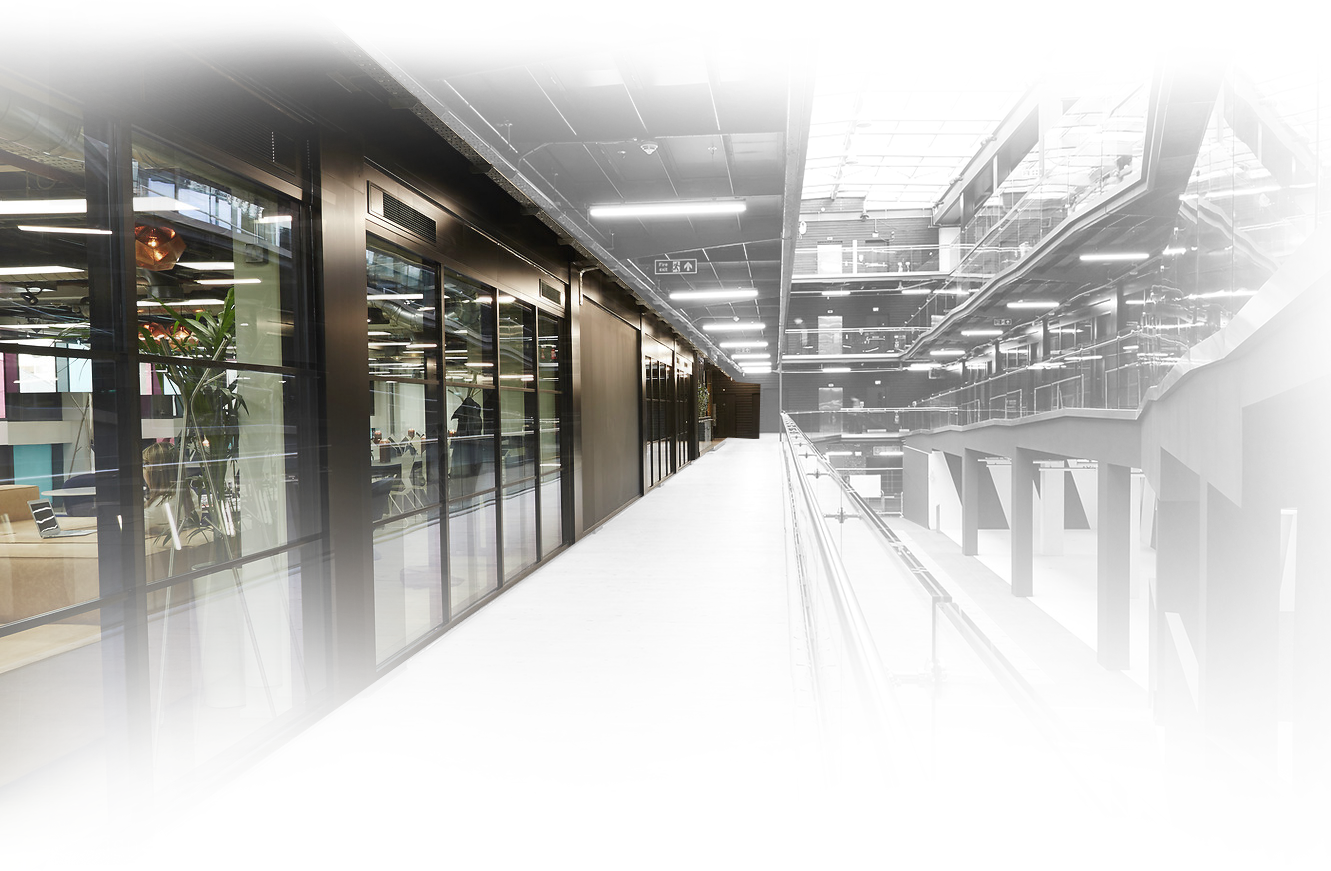
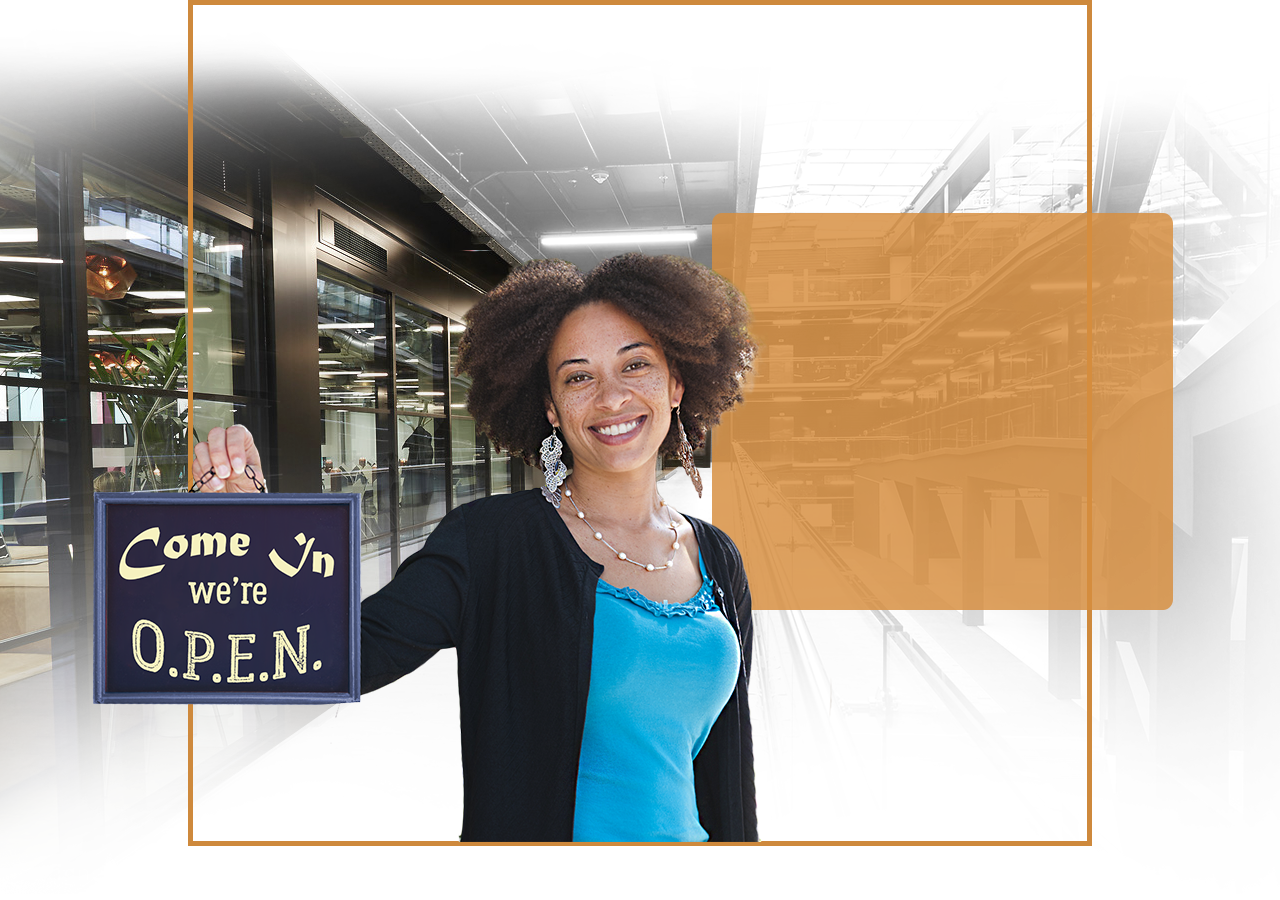
Multi Back Section

diff --git a/css/style.css b/css/style.css
@@ -183,6 +183,9 @@ a{
 	padding-left: 0;
 	transition: 1s;
 }
+.drop-menu-items a{
+	display: block;
+}
 .dropdown a{
 	color: #d0caa1;
 }
@@ -197,9 +200,6 @@ a{
 	background: rgba(0, 0,0,0.8);
 	border-top: 1px solid #f6f1bf;
 	border-bottom: 1px solid #f6f1bf;
-}
-.dropdown a:last-child>li{
-	padding-bottom: 20px;
 }
 .dropdown:hover .drop-menu-items{
 	display: block;
@@ -246,6 +246,7 @@ a{
 	font-size: 22px;
 	text-transform: uppercase;
 	color: #2e1810;
+	margin-top: 0;
 }
 .sidebar input{
 	margin: 5px 0 5px 0;
@@ -501,5 +502,74 @@ a{
 	transition: 0.5s;
 }
 .office button:hover{
+	box-shadow: 5px 5px 7px rgba(0,0,0,0.6);
+}
+/*--END OF OFFICES--*/
+/*--DISCOUNT SECTION--*/
+.discount{
+	background:url(../images/Offer_BG.png) no-repeat;
+	min-height: 850px;
+	margin: 35px 0;
+	position: relative;
+}
+.orange_frame{
+	position: relative;
+	max-width: 825px;
+	margin: 0 auto;
+}
+.discount_form{
+	max-width: 460px;
+	border-radius: 15px;
+	position: absolute;
+	top: 185px;
+    right:-115px;
+}
+.discount_form h4{
+	font-family: Raleway-Bold;
+	font-size: 40px;
+	color: #fff;
+	text-align: center;
+	text-transform: uppercase;
+	padding-top: 40px;
+	margin: 0px;
+}
+.discount_form span{
+	font-family: Raleway-Medium;
+	font-size: 30px;
+	color: #fff;
+	text-transform: lowercase;
+}
+span.extra{
+	font-family: Raleway-ExtraBold;
+	font-size: 48px;
+	text-transform: uppercase;
+}
+.discount_form form{
+	z-index: 999999;
+}
+.discount_form input, .discount_form button{
+	display: block;
+}
+.discount_form input{
+	min-width: 380px;
+	min-height: 45px;
+	padding-left: 11px;
+	margin: 15px 35px;
+}
+.discount_form button{
+	min-width: 295px;
+	min-height: 60px;
+	background-color: #00a9da;
+	font-family: Raleway-ExtraBold;
+	font-size: 36px;
+	text-align: center;
+	color: #fff;
+	box-shadow: 0px 3px 5px rgba(0,0,0,0.6);
+	transition: 0.5s;
+	border-style: none;
+	cursor: pointer;
+	margin: 15px auto 40px auto;
+}
+.discount_form button:hover{
 	box-shadow: 5px 5px 7px rgba(0,0,0,0.6);
 }

diff --git a/index.html b/index.html
@@ -102,6 +102,19 @@
 				</div>
 			</div>
 		</section>
+		<section class="discount">
+			<div class="orange_frame">
+				<div class="discount_form clearfix">
+					<h4>hurry up<br> <span>and get</span><br><span class="extra"> 40% discount</span></h4>
+					<form action="#">
+						<input type="text" placeholder="Your name">
+						<input type="text" placeholder="Your phone number">
+						<button>Book</button>
+					</form>
+				</div>
+			</div>
+		</section>
+	</div>
 	</main>
 	<footer class="footer"></footer>
 	<script src="js/jquery-3.0.0.js"></script>
